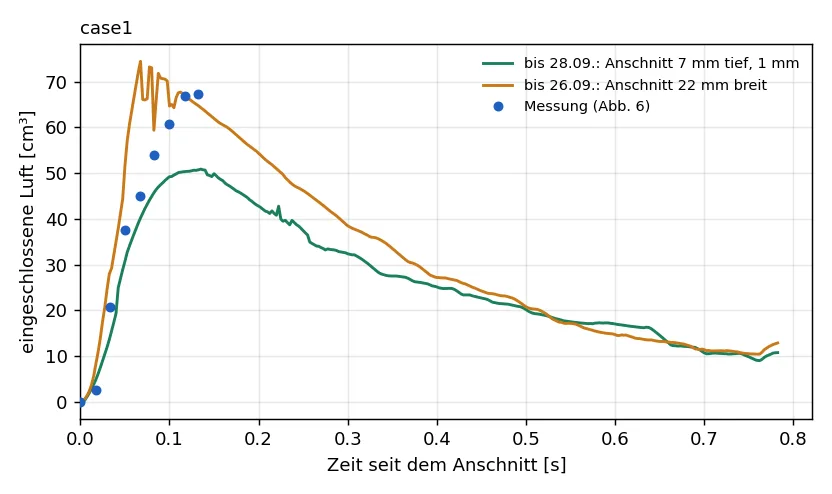
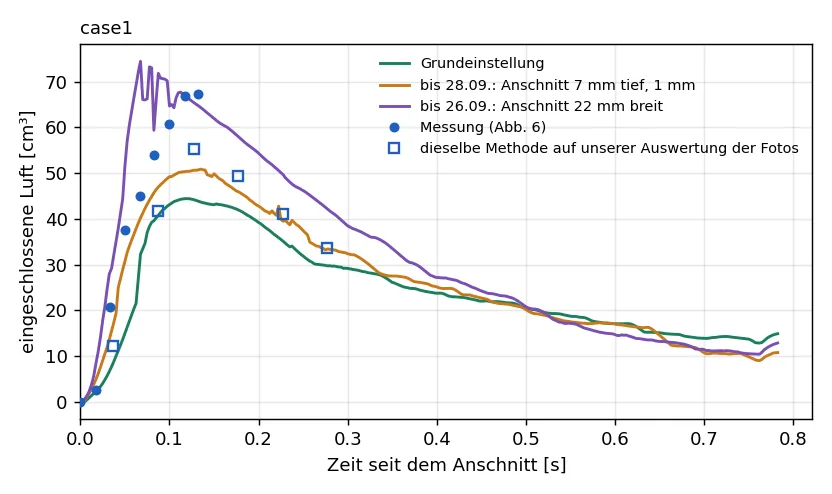
Simulation: Niida mit allen sechs Einstellungen der Grundeinstellung vom 28.09.
Alle sechs Einstellungen sind mit dem 10 mm tiefen Anschnitt und 0,5 mm am
Übergang gerechnet. Die Fotos liegen näher oder gleich, die Luft bei P2
mit 150 und 200 mm/s näher; bei P1 schließt die Rechnung 25 bis 35 %
weniger Luft ein als Abb. 6, liegt aber nahe an derselben Bildmethode auf
unserer Auswertung der Fotos.

Claude-Session: https://claude.ai/code/session_01V4dQmwjtnc28YPc5V6DGNq

diff --git a/web/simulation/validierung-niida.html b/web/simulation/validierung-niida.html
@@ -130,7 +130,7 @@
 
       <div class="draft-note">
         📚 <b>Entwurf:</b> Die Validierung läuft noch; Zahlen und Befunde werden mit jeder
-        Rechnung nachgetragen (Stand 29.09.2026). Der Text ist noch nicht redigiert.
+        Rechnung nachgetragen (Stand 30.09.2026). Der Text ist noch nicht redigiert.
       </div>
 
       <span class="section-anchor" id="n1"></span>
@@ -183,20 +183,25 @@
 
       <span class="section-anchor" id="n4"></span>
       <h2 class="section-title">4. Ergebnisse</h2>
-      <div class="table-scroll"><table class="th-table kennzahlen"><thead><tr><th>Einstellung</th><th>Umschaltung, v hoch [mm/s]</th><th>Luft RMSE [cm³]</th><th>Luft am Ende gemessen / gerechnet [cm³]</th><th>Fotos: mittlere Abweichung</th><th>Fotos: IoU dick</th><th>Fotos: IoU nass</th><th>Massenbilanz der Fotos</th></tr></thead><tbody><tr><td><code>case1</code></td><td>P1, 100</td><td>läuft</td><td>läuft</td><td>läuft</td><td>läuft</td><td>läuft</td><td>läuft</td></tr><tr><td><code>case2</code></td><td>P1, 150</td><td>10,6</td><td>76,7 / 57,6</td><td>0,073</td><td>0,23</td><td>0,54</td><td>0,76</td></tr><tr><td><code>case3</code></td><td>P1, 200</td><td>13,5</td><td>78,8 / 55,1</td><td>keine Fotos</td><td>keine Fotos</td><td>keine Fotos</td><td>keine Fotos</td></tr><tr><td><code>case4</code></td><td>P2, 100</td><td>2,6</td><td>7,3 / 0,8</td><td>0,085</td><td>0,87</td><td>0,88</td><td>0,88</td></tr><tr><td><code>case5</code></td><td>P2, 150</td><td>4,2</td><td>12,1 / 4,8</td><td>0,186</td><td>0,67</td><td>0,74</td><td>0,98</td></tr><tr><td><code>case6</code></td><td>P2, 200</td><td>läuft</td><td>läuft</td><td>läuft</td><td>läuft</td><td>läuft</td><td>läuft</td></tr></tbody></table></div><p class="prose"><small>Grundeinstellung: Anschnitt 30 mm, k-omega SST, 1 mm. Luft: Abb. 6 der Quelle über die ganze Messung. Massenbilanz: Zuwachs des Wassers in den Fotos je verdrängtem Volumen des Kolbens (1 = stimmig).</small></p>
+      <div class="table-scroll"><table class="th-table kennzahlen"><thead><tr><th>Einstellung</th><th>Umschaltung, v hoch [mm/s]</th><th>Luft RMSE [cm³]</th><th>Luft am Ende gemessen / gerechnet [cm³]</th><th>Fotos: mittlere Abweichung</th><th>Fotos: IoU dick</th><th>Fotos: IoU nass</th><th>Massenbilanz der Fotos</th></tr></thead><tbody><tr><td><code>case1</code></td><td>P1, 100</td><td>16,5</td><td>67,4 / 43,9</td><td>0,268</td><td>0,29</td><td>0,68</td><td>1,03</td></tr><tr><td><code>case2</code></td><td>P1, 150</td><td>10,6</td><td>76,7 / 57,6</td><td>0,073</td><td>0,23</td><td>0,54</td><td>0,76</td></tr><tr><td><code>case3</code></td><td>P1, 200</td><td>13,5</td><td>78,8 / 55,1</td><td>keine Fotos</td><td>keine Fotos</td><td>keine Fotos</td><td>keine Fotos</td></tr><tr><td><code>case4</code></td><td>P2, 100</td><td>2,6</td><td>7,3 / 0,8</td><td>0,085</td><td>0,87</td><td>0,88</td><td>0,88</td></tr><tr><td><code>case5</code></td><td>P2, 150</td><td>4,2</td><td>12,1 / 4,8</td><td>0,186</td><td>0,67</td><td>0,74</td><td>0,98</td></tr><tr><td><code>case6</code></td><td>P2, 200</td><td>17,0</td><td>22,3 / 13,5</td><td>keine Fotos</td><td>keine Fotos</td><td>keine Fotos</td><td>keine Fotos</td></tr></tbody></table></div><p class="prose"><small>Grundeinstellung: Anschnitt 30 mm, k-omega SST, 1 mm. Luft: Abb. 6 der Quelle über die ganze Messung. Massenbilanz: Zuwachs des Wassers in den Fotos je verdrängtem Volumen des Kolbens (1 = stimmig).</small></p>
       <div class="insight-box"><span class="label">Befund</span>
-        <p>Mit der Grundeinstellung vom 28.09. (Anschnitt 30 mm breit und 10 mm tief in der Büchse, 0,5 mm am Übergang,
-          SST) liegen die Fotos in allen gerechneten Einstellungen näher als zuvor: bei P2 <code>case4</code> mittlere
-          Abweichung 0,085 und dicke Fläche IoU 0,87 (zuvor 0,123 und 0,81), <code>case5</code> 0,186 und 0,67; bei P1
-          <code>case2</code> 0,073 und 0,23 (zuvor 0,090 und 0,13). Die eingeschlossene Luft trifft <code>case5</code>
-          besser (RMSE 4,2 statt 8,0 cm³), <code>case4</code> etwas schlechter (2,6 statt 1,4 cm³). Bei P1 schließt die
-          Rechnung am Ende 25 bis 30 % weniger Luft ein als gemessen (<code>case2</code> 58 gegen 77 cm³,
-          <code>case3</code> 55 gegen 79 cm³; RMSE 10,6 und 13,5 statt 8,3 und 8,4 cm³).</p>
-        <p>Die gemessene Luft ist selbst unsicher. Dieselbe Bildmethode auf unserer Auswertung derselben Fotos ergibt bei
-          P1 bis zu 18 cm³ weniger als Abb. 6 (<code>case2</code> nach 0,075 s: 55 gegen 72 cm³, die Rechnung 56 cm³),
-          bei P2 bis auf 2 bis 3 cm³ dasselbe; die offenen Quadrate in den Diagrammen unten. Der Unterschied bei P1 liegt
-          damit in derselben Größe wie die Unsicherheit der Messung. <code>case1</code> und <code>case6</code> werden
-          noch gerechnet.</p></div>
+        <p>Alle sechs Einstellungen mit der Grundeinstellung vom 28.09. (Anschnitt 30 mm breit und 10 mm tief in der
+          Büchse, 0,5 mm am Übergang, SST), verglichen mit der vom 27.09. (7 mm tief, 1 mm):</p>
+        <ul>
+          <li><strong>Fotos:</strong> näher in <code>case2</code> (mittlere Abweichung 0,073 statt 0,090, dicke Fläche IoU
+            0,23 statt 0,13), <code>case4</code> (0,085 statt 0,123, IoU 0,87 statt 0,81) und <code>case5</code> (0,186
+            statt 0,210); gleich in <code>case1</code> (0,268 gegen 0,262).</li>
+          <li><strong>Luft bei P2:</strong> näher mit 150 und 200 mm/s (<code>case5</code> RMSE 4,2 statt 8,0 cm³,
+            <code>case6</code> 17,0 statt 23,0 cm³), etwas weiter mit 100 mm/s (<code>case4</code> 2,6 statt 1,4 cm³).
+            Bei 200 mm/s schießt der Strahl nach dem Umschalten weiter durch das Becken und schließt zu früh Luft ein.</li>
+          <li><strong>Luft bei P1:</strong> die Rechnung schließt am Ende 25 bis 35 % weniger Luft ein als Abb. 6
+            (<code>case1</code> 44 gegen 67, <code>case2</code> 58 gegen 77, <code>case3</code> 55 gegen 79 cm³; RMSE
+            16,5, 10,6 und 13,5 statt 9,8, 8,3 und 8,4 cm³).</li>
+        </ul>
+        <p>Die gemessene Luft ist selbst unsicher. Dieselbe Bildmethode auf unserer Auswertung derselben Fotos liest bei
+          P1 20 bis 35 % weniger Luft als Abb. 6, und die Rechnung liegt nahe an dieser Lesart (<code>case1</code> nach
+          0,087 s: Foto 42, Rechnung 41, Abb. 6 56 cm³; <code>case2</code> nach 0,075 s: 55, 56 und 72 cm³); bei P2
+          stimmen beide Lesarten bis auf 2 bis 3 cm³ überein. Die offenen Quadrate in den Diagrammen unten zeigen sie.</p></div>
       <h3 class="sub-title">4.1 Eingeschlossene Luft</h3>
       <div class="fig-wrap"><img src="img/val/niida-case1-luft.webp" alt="&lt;code&gt;case1&lt;/code&gt;: eingeschlossene Luft über der Zeit, Messung der Quelle und Rechnungen (Bildverfahren der Quelle)" loading="lazy"><div class="fig-cap"><code>case1</code>: eingeschlossene Luft über der Zeit, Messung der Quelle und Rechnungen (Bildverfahren der Quelle)</div></div>
 <div class="fig-wrap"><img src="img/val/niida-case2-luft.webp" alt="&lt;code&gt;case2&lt;/code&gt;: eingeschlossene Luft über der Zeit, Messung der Quelle und Rechnungen (Bildverfahren der Quelle)" loading="lazy"><div class="fig-cap"><code>case2</code>: eingeschlossene Luft über der Zeit, Messung der Quelle und Rechnungen (Bildverfahren der Quelle)</div></div>
@@ -221,12 +226,12 @@
           Entlüftung oben rechts im Überlauf.</p>
       </div>
       <h4 class="bild-reihe"><code>case1</code>: P1, 100 mm/s (Abb. 5)</h4>
-<div class="fig-wrap"><img src="img/val/niida-case1-p1_5_case1_exp_front_t8.37s.webp" alt="&lt;code&gt;case1&lt;/code&gt;: Foto, seine Auswertung und die Rechnung in derselben Ansicht, Rechnung noch mit der Grundeinstellung bis 28.09. (die neue läuft)" loading="lazy"><div class="fig-cap"><code>case1</code>: Foto, seine Auswertung und die Rechnung in derselben Ansicht, Rechnung noch mit der Grundeinstellung bis 28.09. (die neue läuft)</div></div>
-<div class="fig-wrap"><img src="img/val/niida-case1-p1_5_case1_exp_front_t8.42s.webp" alt="&lt;code&gt;case1&lt;/code&gt;: Foto, seine Auswertung und die Rechnung in derselben Ansicht, Rechnung noch mit der Grundeinstellung bis 28.09. (die neue läuft)" loading="lazy"><div class="fig-cap"><code>case1</code>: Foto, seine Auswertung und die Rechnung in derselben Ansicht, Rechnung noch mit der Grundeinstellung bis 28.09. (die neue läuft)</div></div>
-<div class="fig-wrap"><img src="img/val/niida-case1-p1_5_case1_exp_front_t8.46s.webp" alt="&lt;code&gt;case1&lt;/code&gt;: Foto, seine Auswertung und die Rechnung in derselben Ansicht, Rechnung noch mit der Grundeinstellung bis 28.09. (die neue läuft)" loading="lazy"><div class="fig-cap"><code>case1</code>: Foto, seine Auswertung und die Rechnung in derselben Ansicht, Rechnung noch mit der Grundeinstellung bis 28.09. (die neue läuft)</div></div>
-<div class="fig-wrap"><img src="img/val/niida-case1-p1_5_case1_exp_front_t8.51s.webp" alt="&lt;code&gt;case1&lt;/code&gt;: Foto, seine Auswertung und die Rechnung in derselben Ansicht, Rechnung noch mit der Grundeinstellung bis 28.09. (die neue läuft)" loading="lazy"><div class="fig-cap"><code>case1</code>: Foto, seine Auswertung und die Rechnung in derselben Ansicht, Rechnung noch mit der Grundeinstellung bis 28.09. (die neue läuft)</div></div>
-<div class="fig-wrap"><img src="img/val/niida-case1-p1_5_case1_exp_front_t8.56s.webp" alt="&lt;code&gt;case1&lt;/code&gt;: Foto, seine Auswertung und die Rechnung in derselben Ansicht, Rechnung noch mit der Grundeinstellung bis 28.09. (die neue läuft)" loading="lazy"><div class="fig-cap"><code>case1</code>: Foto, seine Auswertung und die Rechnung in derselben Ansicht, Rechnung noch mit der Grundeinstellung bis 28.09. (die neue läuft)</div></div>
-<div class="fig-wrap"><img src="img/val/niida-case1-p1_5_case1_exp_front_t8.61s.webp" alt="&lt;code&gt;case1&lt;/code&gt;: Foto, seine Auswertung und die Rechnung in derselben Ansicht, Rechnung noch mit der Grundeinstellung bis 28.09. (die neue läuft)" loading="lazy"><div class="fig-cap"><code>case1</code>: Foto, seine Auswertung und die Rechnung in derselben Ansicht, Rechnung noch mit der Grundeinstellung bis 28.09. (die neue läuft)</div></div>
+<div class="fig-wrap"><img src="img/val/niida-case1-p1_5_case1_exp_front_t8.37s.webp" alt="&lt;code&gt;case1&lt;/code&gt;: Foto, seine Auswertung und die Rechnung in derselben Ansicht" loading="lazy"><div class="fig-cap"><code>case1</code>: Foto, seine Auswertung und die Rechnung in derselben Ansicht</div></div>
+<div class="fig-wrap"><img src="img/val/niida-case1-p1_5_case1_exp_front_t8.42s.webp" alt="&lt;code&gt;case1&lt;/code&gt;: Foto, seine Auswertung und die Rechnung in derselben Ansicht" loading="lazy"><div class="fig-cap"><code>case1</code>: Foto, seine Auswertung und die Rechnung in derselben Ansicht</div></div>
+<div class="fig-wrap"><img src="img/val/niida-case1-p1_5_case1_exp_front_t8.46s.webp" alt="&lt;code&gt;case1&lt;/code&gt;: Foto, seine Auswertung und die Rechnung in derselben Ansicht" loading="lazy"><div class="fig-cap"><code>case1</code>: Foto, seine Auswertung und die Rechnung in derselben Ansicht</div></div>
+<div class="fig-wrap"><img src="img/val/niida-case1-p1_5_case1_exp_front_t8.51s.webp" alt="&lt;code&gt;case1&lt;/code&gt;: Foto, seine Auswertung und die Rechnung in derselben Ansicht" loading="lazy"><div class="fig-cap"><code>case1</code>: Foto, seine Auswertung und die Rechnung in derselben Ansicht</div></div>
+<div class="fig-wrap"><img src="img/val/niida-case1-p1_5_case1_exp_front_t8.56s.webp" alt="&lt;code&gt;case1&lt;/code&gt;: Foto, seine Auswertung und die Rechnung in derselben Ansicht" loading="lazy"><div class="fig-cap"><code>case1</code>: Foto, seine Auswertung und die Rechnung in derselben Ansicht</div></div>
+<div class="fig-wrap"><img src="img/val/niida-case1-p1_5_case1_exp_front_t8.61s.webp" alt="&lt;code&gt;case1&lt;/code&gt;: Foto, seine Auswertung und die Rechnung in derselben Ansicht" loading="lazy"><div class="fig-cap"><code>case1</code>: Foto, seine Auswertung und die Rechnung in derselben Ansicht</div></div>
 <h4 class="bild-reihe"><code>case2</code>: P1, 150 mm/s (Abb. 7)</h4>
 <div class="fig-wrap"><img src="img/val/niida-case2-p1_7_case2_exp_front_t8.68s.webp" alt="&lt;code&gt;case2&lt;/code&gt;: Foto, seine Auswertung und die Rechnung in derselben Ansicht" loading="lazy"><div class="fig-cap"><code>case2</code>: Foto, seine Auswertung und die Rechnung in derselben Ansicht</div></div>
 <div class="fig-wrap"><img src="img/val/niida-case2-p1_7_case2_exp_front_t8.70s.webp" alt="&lt;code&gt;case2&lt;/code&gt;: Foto, seine Auswertung und die Rechnung in derselben Ansicht" loading="lazy"><div class="fig-cap"><code>case2</code>: Foto, seine Auswertung und die Rechnung in derselben Ansicht</div></div>

diff --git a/web/simulation/index.html b/web/simulation/index.html
@@ -124,7 +124,7 @@
 
       <div class="draft-note">
         📚 <b>Entwurf:</b> Die Validierung läuft noch; Zahlen und Befunde werden mit jeder
-        Rechnung nachgetragen (Stand 29.09.2026). Der Text ist noch nicht redigiert.
+        Rechnung nachgetragen (Stand 30.09.2026). Der Text ist noch nicht redigiert.
       </div>
 
       <span class="section-anchor" id="u1"></span>
@@ -153,7 +153,7 @@
 
       <span class="section-anchor" id="u2"></span>
       <h2 class="section-title">2. Die Validierungsfälle</h2>
-      <div class="table-scroll"><table class="th-table"><thead><tr><th>Quelle</th><th>Versuch</th><th>Messgrößen</th><th>Solver</th><th>Stand</th></tr></thead><tbody><tr><td><a href="validierung-niida.html">Niida und Maeda 2020</a></td><td>Platte 100 × 150 × 5 mm, sechs Schussprofile</td><td>Fotos (60 Bilder/s), eingeschlossene Luft über der Zeit</td><td>dieLogicFoam</td><td>Luft RMSE 2,6 bis 13,5 cm³ (4 Einstellungen), Fotos mittlere Abweichung 0,07 bis 0,19</td></tr><tr><td><a href="validierung-trometer.html">Trometer et al. 2023</a></td><td>Rechteckform mit Insel, Vakuum</td><td>Fotos (1000 Bilder/s), Luftnester</td><td>dieLogicFoam</td><td>Wasser IoU Anfang 0,24, Mitte 0,67, Ende 0,85; Lage der Luftnester offen</td></tr><tr><td><a href="validierung-zamora.html">Zamora und López 2007/2008</a></td><td>Gießkammer, langsamer Schuss</td><td>eingeschlossene Luft (13 Einstellungen), Fotos der Welle</td><td>shotSleeveFoam</td><td>Luft RMSE 0,012 von V/(AL) über 13 Einstellungen</td></tr></tbody></table></div>
+      <div class="table-scroll"><table class="th-table"><thead><tr><th>Quelle</th><th>Versuch</th><th>Messgrößen</th><th>Solver</th><th>Stand</th></tr></thead><tbody><tr><td><a href="validierung-niida.html">Niida und Maeda 2020</a></td><td>Platte 100 × 150 × 5 mm, sechs Schussprofile</td><td>Fotos (60 Bilder/s), eingeschlossene Luft über der Zeit</td><td>dieLogicFoam</td><td>Luft RMSE 2,6 bis 17,0 cm³ (6 Einstellungen), Fotos mittlere Abweichung 0,07 bis 0,27</td></tr><tr><td><a href="validierung-trometer.html">Trometer et al. 2023</a></td><td>Rechteckform mit Insel, Vakuum</td><td>Fotos (1000 Bilder/s), Luftnester</td><td>dieLogicFoam</td><td>Wasser IoU Anfang 0,24, Mitte 0,67, Ende 0,85; Lage der Luftnester offen</td></tr><tr><td><a href="validierung-zamora.html">Zamora und López 2007/2008</a></td><td>Gießkammer, langsamer Schuss</td><td>eingeschlossene Luft (13 Einstellungen), Fotos der Welle</td><td>shotSleeveFoam</td><td>Luft RMSE 0,012 von V/(AL) über 13 Einstellungen</td></tr></tbody></table></div>
 
       <span class="section-anchor" id="u3"></span>
       <h2 class="section-title">3. Ablage und Ablauf</h2>

diff --git a/web/simulation/shotsleevefoam.html b/web/simulation/shotsleevefoam.html
@@ -128,7 +128,7 @@
 
       <div class="draft-note">
         📚 <b>Entwurf:</b> Die Validierung läuft noch; Zahlen und Befunde werden mit jeder
-        Rechnung nachgetragen (Stand 29.09.2026). Der Text ist noch nicht redigiert.
+        Rechnung nachgetragen (Stand 30.09.2026). Der Text ist noch nicht redigiert.
       </div>
 
       <span class="section-anchor" id="k1"></span>

diff --git a/web/simulation/validierung-trometer.html b/web/simulation/validierung-trometer.html
@@ -129,7 +129,7 @@
 
       <div class="draft-note">
         📚 <b>Entwurf:</b> Die Validierung läuft noch; Zahlen und Befunde werden mit jeder
-        Rechnung nachgetragen (Stand 29.09.2026). Der Text ist noch nicht redigiert.
+        Rechnung nachgetragen (Stand 30.09.2026). Der Text ist noch nicht redigiert.
       </div>
 
       <span class="section-anchor" id="t1"></span>

diff --git a/web/simulation/validierung-zamora.html b/web/simulation/validierung-zamora.html
@@ -129,7 +129,7 @@
 
       <div class="draft-note">
         📚 <b>Entwurf:</b> Die Validierung läuft noch; Zahlen und Befunde werden mit jeder
-        Rechnung nachgetragen (Stand 29.09.2026). Der Text ist noch nicht redigiert.
+        Rechnung nachgetragen (Stand 30.09.2026). Der Text ist noch nicht redigiert.
       </div>
 
       <span class="section-anchor" id="z1"></span>

diff --git a/web/simulation/validierung.html b/web/simulation/validierung.html
@@ -128,7 +128,7 @@
 
       <div class="draft-note">
         📚 <b>Entwurf:</b> Die Validierung läuft noch; Zahlen und Befunde werden mit jeder
-        Rechnung nachgetragen (Stand 29.09.2026). Der Text ist noch nicht redigiert.
+        Rechnung nachgetragen (Stand 30.09.2026). Der Text ist noch nicht redigiert.
       </div>
 
       <span class="section-anchor" id="v1"></span>

diff --git a/web/simulation/dielogicfoam.html b/web/simulation/dielogicfoam.html
@@ -138,8 +138,9 @@
 
       <div class="draft-note">
         📚 <b>Entwurf:</b> Die Validierung läuft noch; Zahlen und Befunde werden mit jeder
-        Rechnung nachgetragen (Stand 29.09.2026). Der Text ist noch nicht redigiert.
+        Rechnung nachgetragen (Stand 30.09.2026). Der Text ist noch nicht redigiert.
       </div>
+
 
 
 

diff --git a/web/simulation/netzbewegung.html b/web/simulation/netzbewegung.html
@@ -131,8 +131,9 @@
 
       <div class="draft-note">
         📚 <b>Entwurf:</b> Die Validierung läuft noch; Zahlen und Befunde werden mit jeder
-        Rechnung nachgetragen (Stand 29.09.2026). Der Text ist noch nicht redigiert.
+        Rechnung nachgetragen (Stand 30.09.2026). Der Text ist noch nicht redigiert.
       </div>
+
 
 
 
